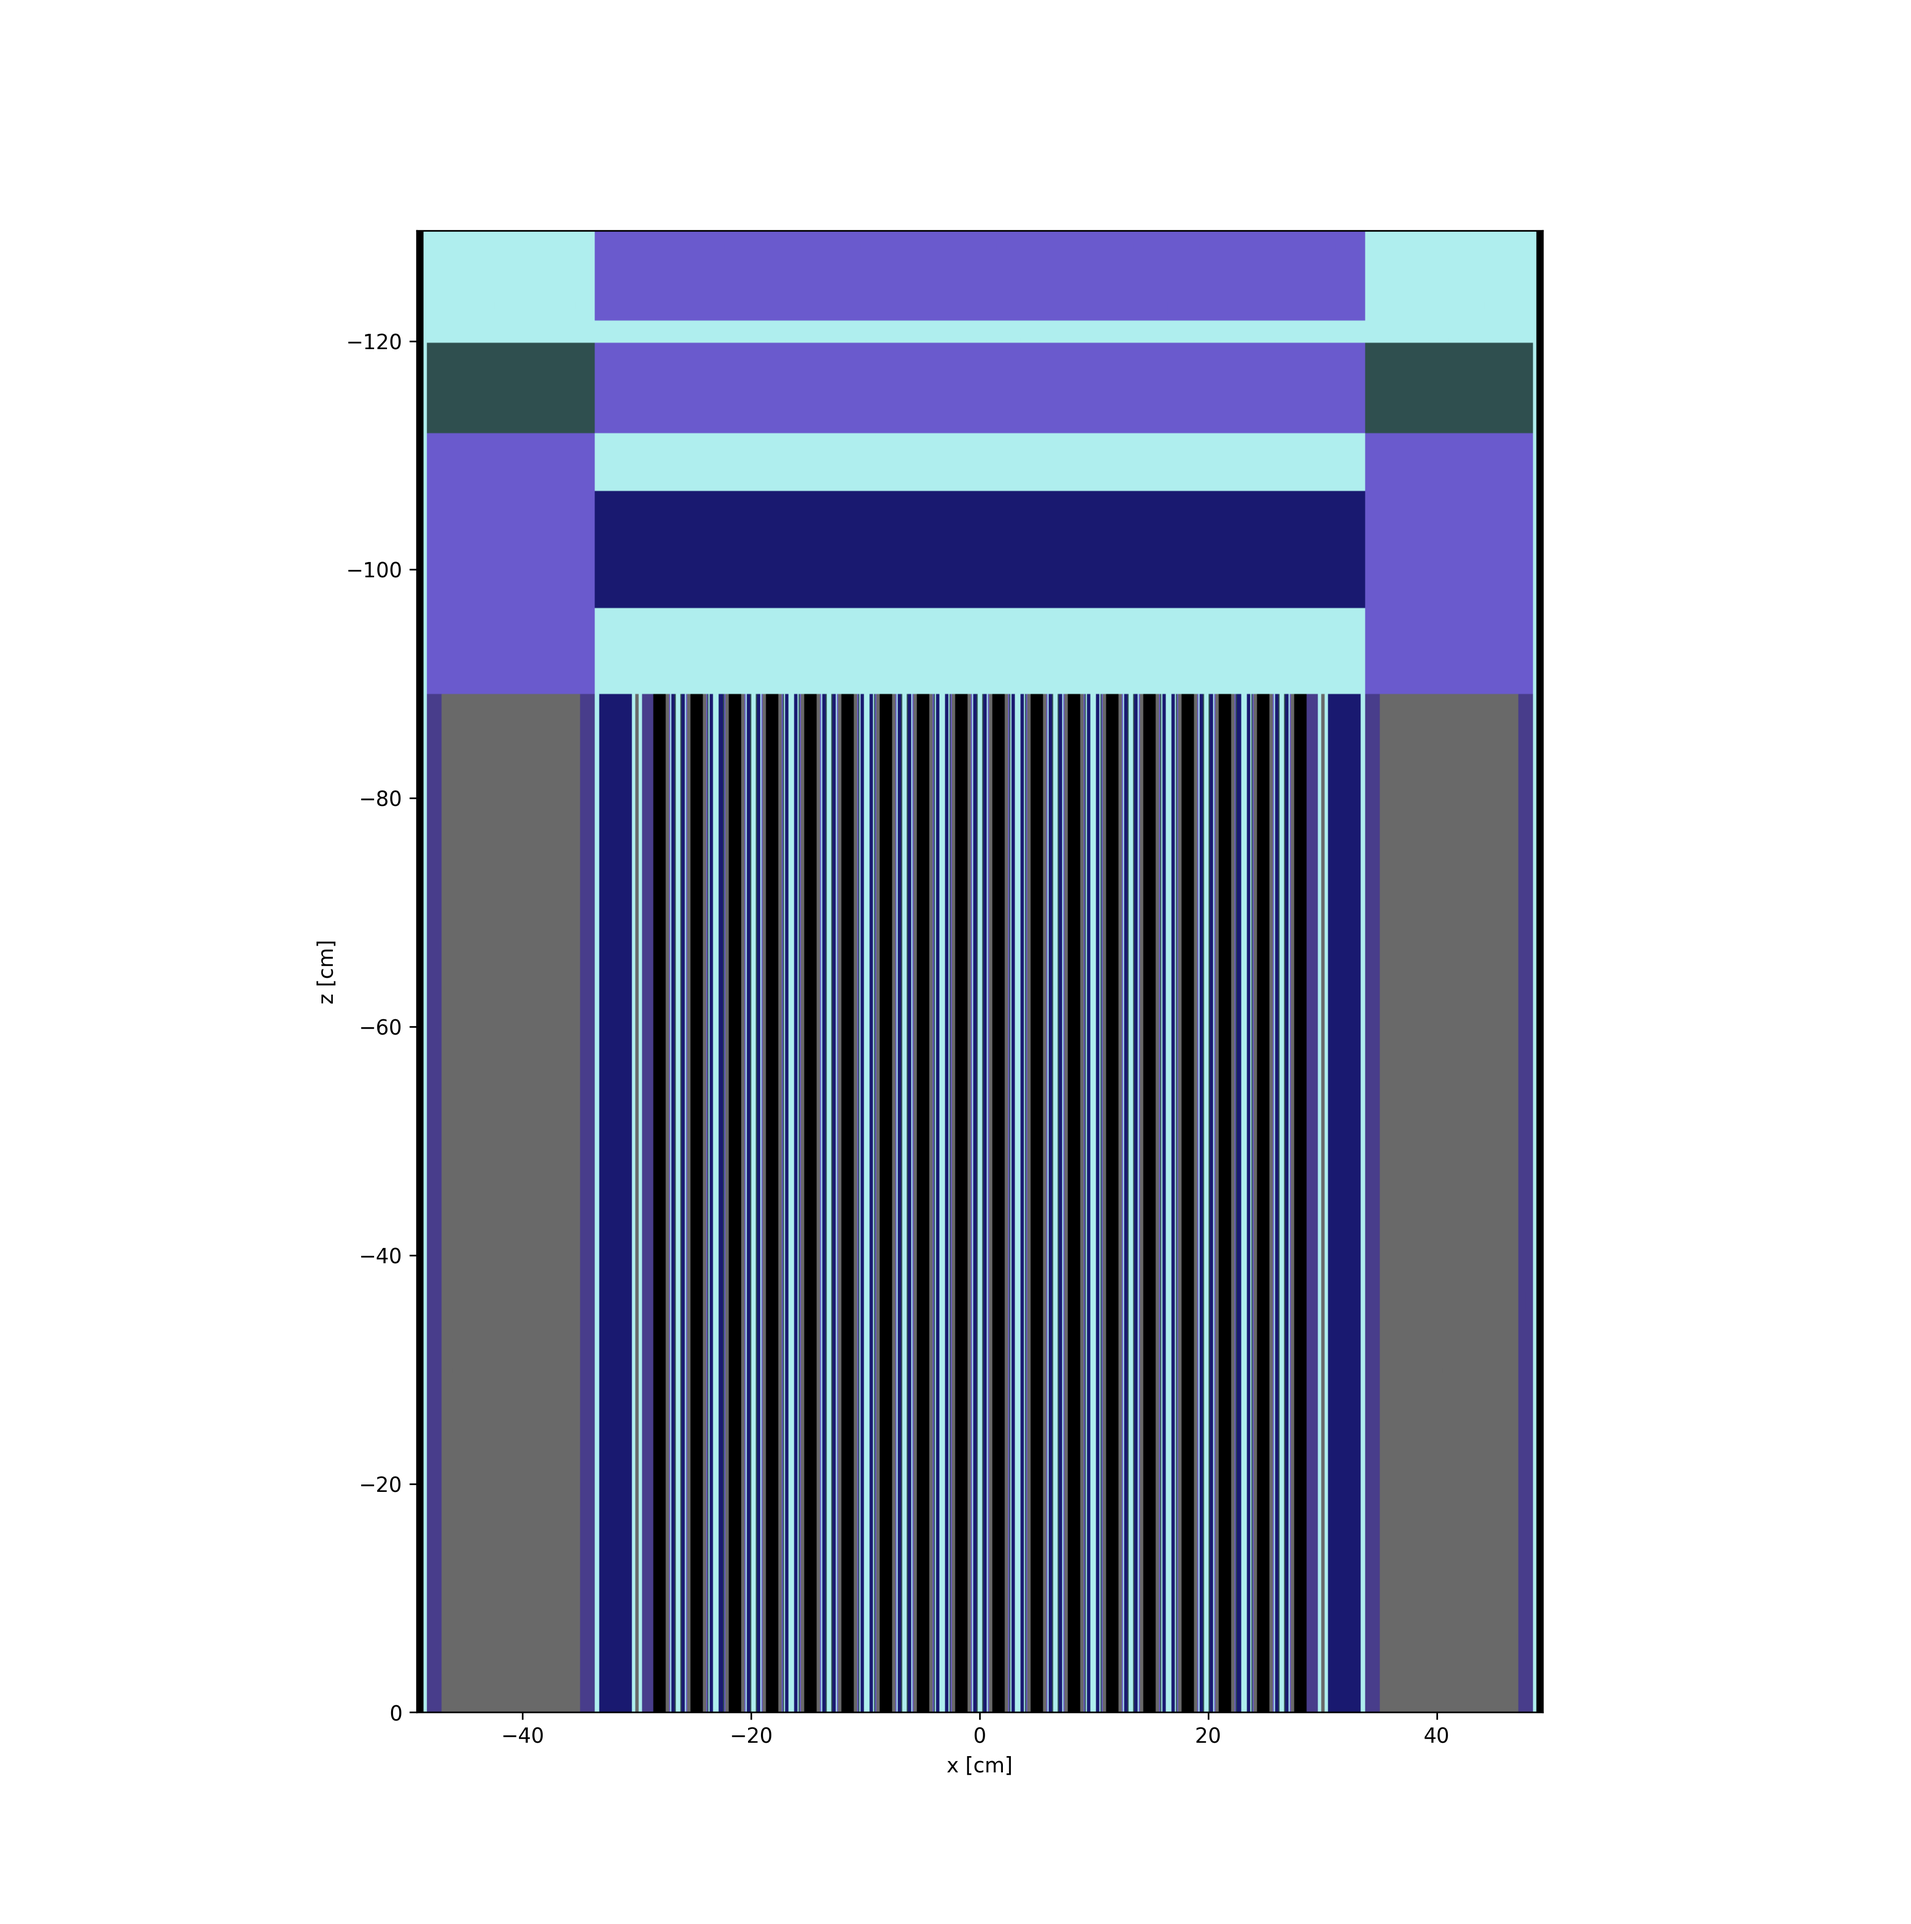
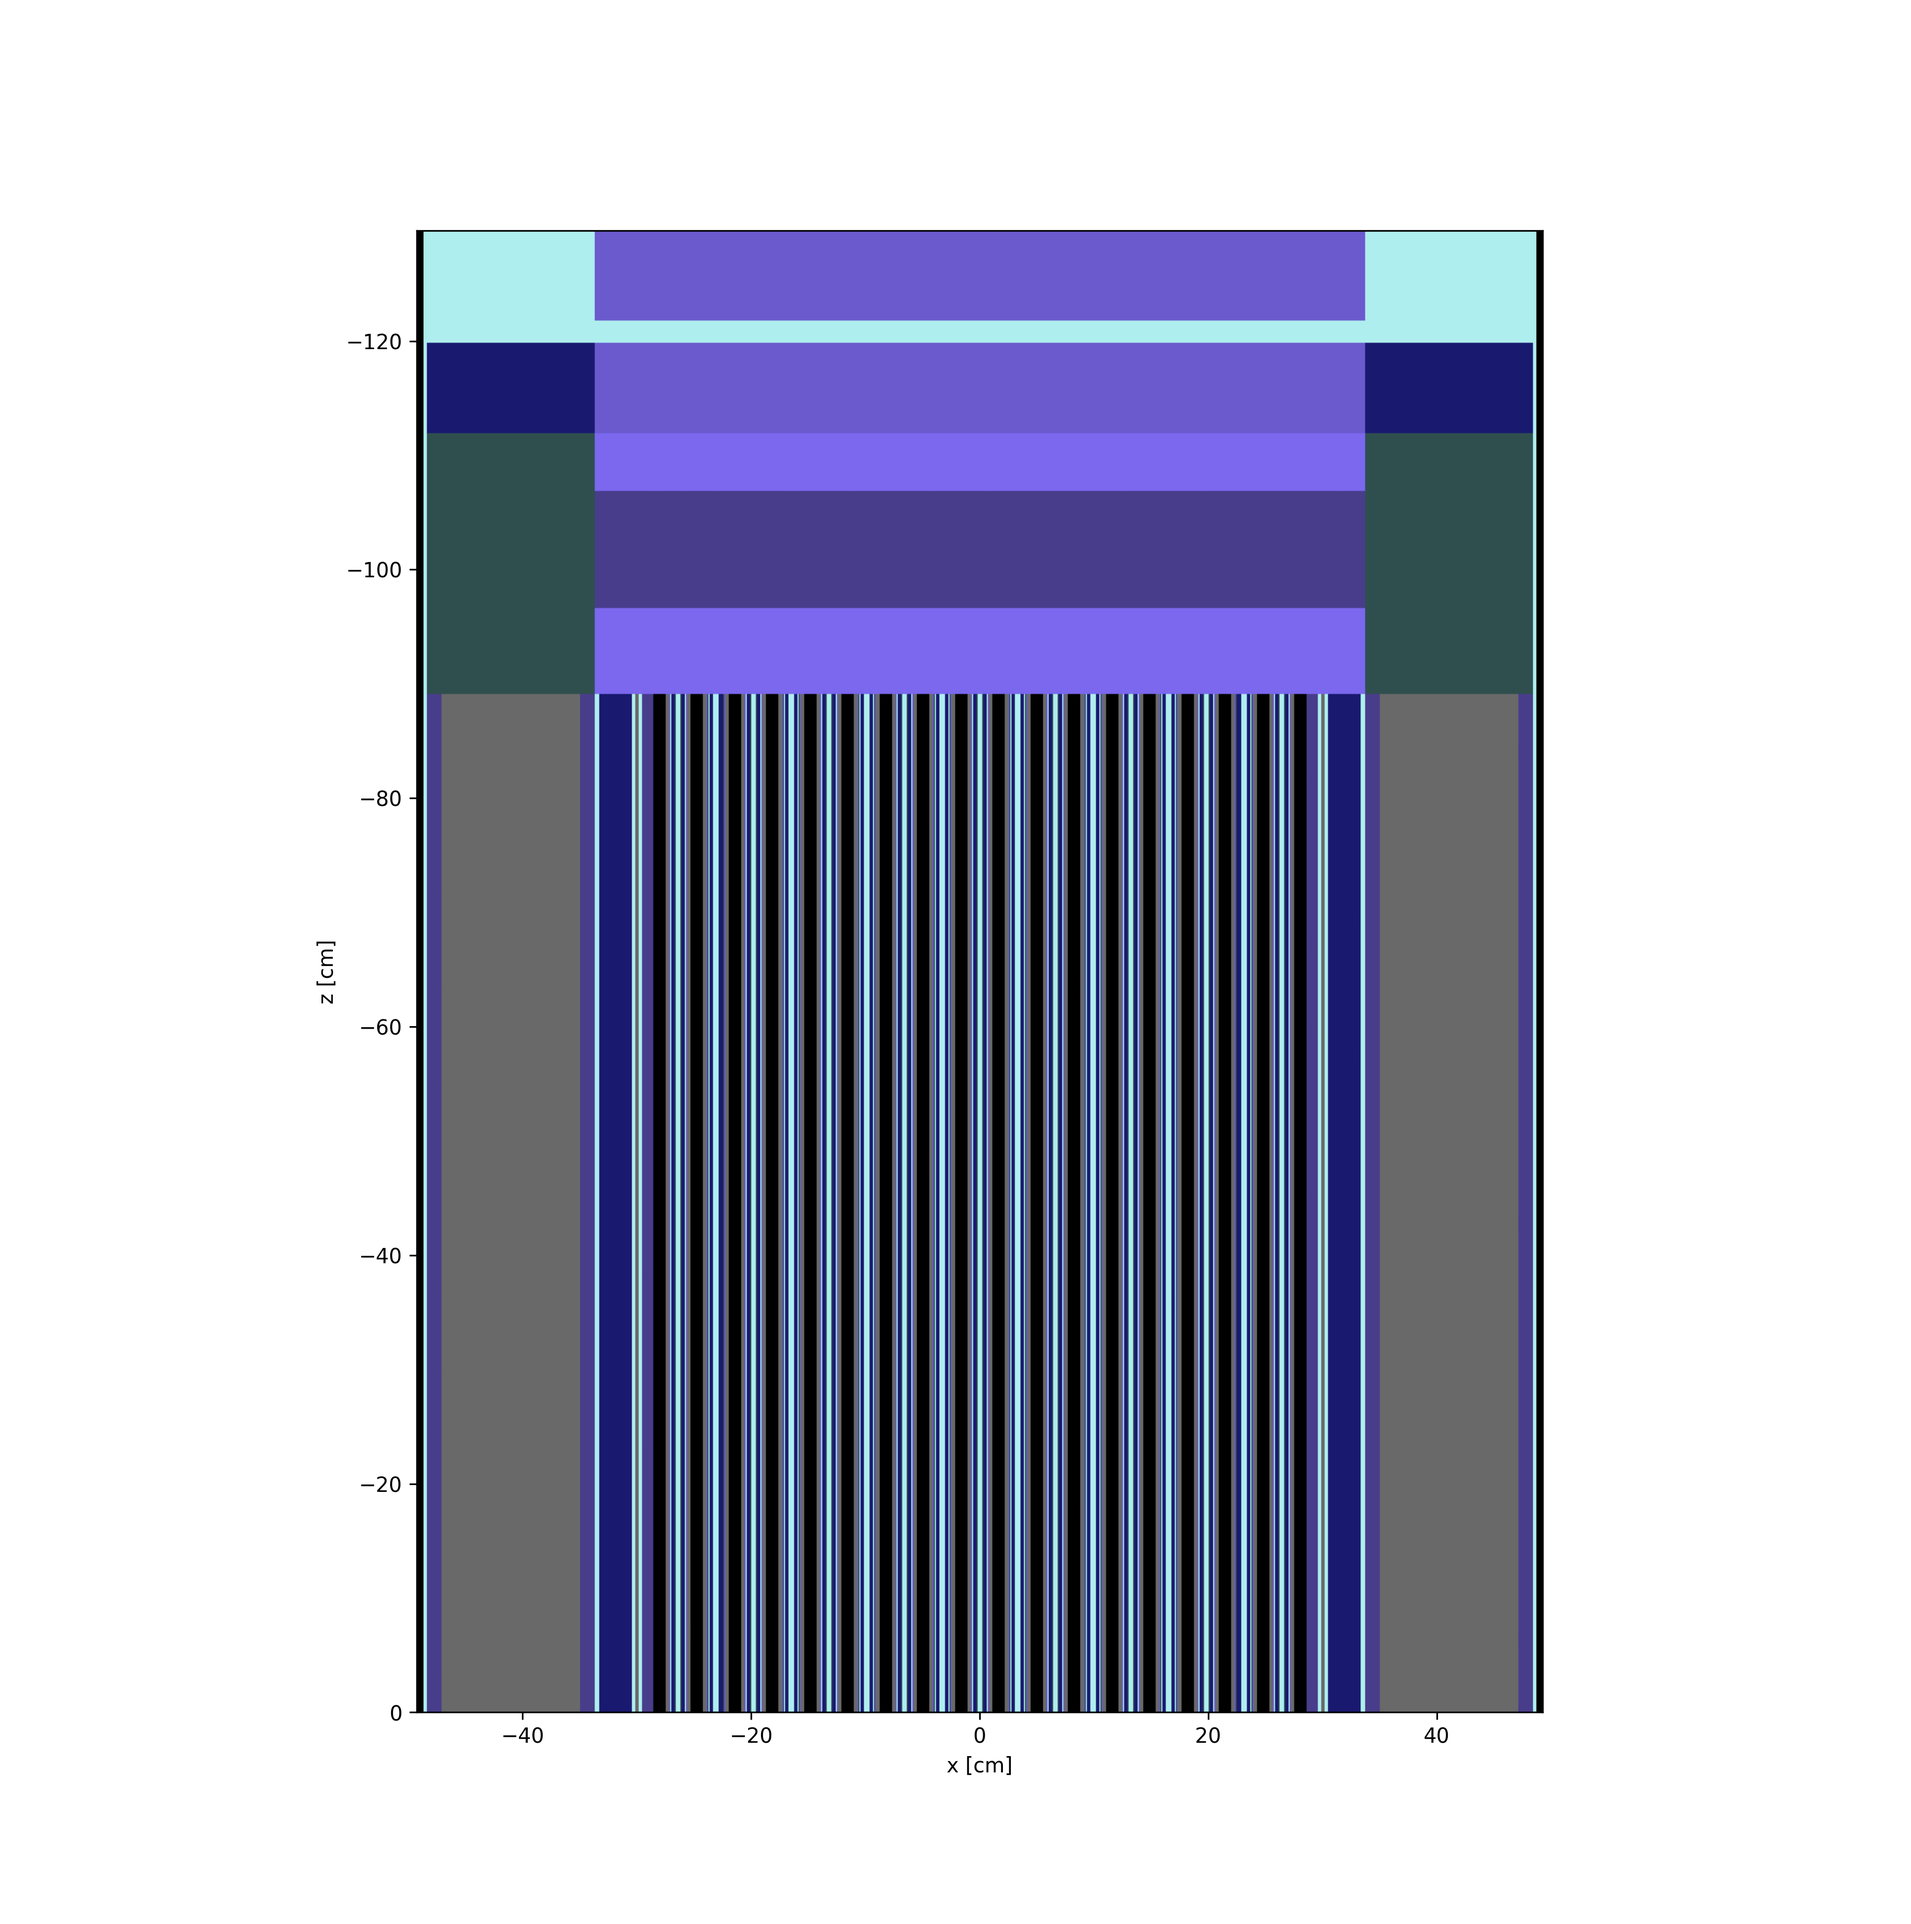
colour correction

Changed region(s): [[0.2171, 0.1553, 0.8062, 0.3727]]

diff --git a/SNREModelling_OpenMC/SNRE_3DReactorAssembly/SNRE_3DGeometry.py b/SNREModelling_OpenMC/SNRE_3DReactorAssembly/SNRE_3DGeometry.py
@@ -522,14 +522,14 @@ class SNRE_3DGeometry:
                                 self.materials.RH_pressureVessel: 'black',
                                 self.materials.RH_controlPlate: 'black',
                                 self.materials.RH_controlDrum: 'dimgray',
-                                self.materials.RH_lowerTieTubePlenum: 'paleturquoise',
-                                self.materials.RH_coreSupportPlate: 'midnightblue',
-                                self.materials.RH_upperTieTubePlenum: 'paleturquoise',
+                                self.materials.RH_lowerTieTubePlenum: 'mediumslateblue',
+                                self.materials.RH_coreSupportPlate: 'darkslateblue',
+                                self.materials.RH_upperTieTubePlenum: 'mediumslateblue',
                                 self.materials.RH_lowerInternalShield: 'slateblue',
                                 self.materials.RH_hydrogenInnerPlenum: 'paleturquoise',
                                 self.materials.RH_upperInternalShield: 'slateblue',
-                                self.materials.RH_controlDrumActuatorZone: 'slateblue',
-                                self.materials.RH_brimShield: 'darkslategray',
+                                self.materials.RH_controlDrumActuatorZone: 'darkslategray',
+                                self.materials.RH_brimShield: 'midnightblue',
                                 self.materials.RH_hydrogenOuterPlenum: 'paleturquoise'
                                 },
                         pixels=[1000,1000])
@@ -559,14 +559,14 @@ class SNRE_3DGeometry:
                                 self.materials.RH_pressureVessel: 'black',
                                 self.materials.RH_controlPlate: 'black',
                                 self.materials.RH_controlDrum: 'dimgray',
-                                self.materials.RH_lowerTieTubePlenum: 'paleturquoise',
-                                self.materials.RH_coreSupportPlate: 'midnightblue',
-                                self.materials.RH_upperTieTubePlenum: 'paleturquoise',
+                                self.materials.RH_lowerTieTubePlenum: 'mediumslateblue',
+                                self.materials.RH_coreSupportPlate: 'darkslateblue',
+                                self.materials.RH_upperTieTubePlenum: 'mediumslateblue',
                                 self.materials.RH_lowerInternalShield: 'slateblue',
                                 self.materials.RH_hydrogenInnerPlenum: 'paleturquoise',
                                 self.materials.RH_upperInternalShield: 'slateblue',
-                                self.materials.RH_controlDrumActuatorZone: 'slateblue',
-                                self.materials.RH_brimShield: 'darkslategray',
+                                self.materials.RH_controlDrumActuatorZone: 'darkslategray',
+                                self.materials.RH_brimShield: 'midnightblue',
                                 self.materials.RH_hydrogenOuterPlenum: 'paleturquoise'
                                 },
                         pixels=[1000,1000])
@@ -596,14 +596,14 @@ class SNRE_3DGeometry:
                                 self.materials.RH_pressureVessel: 'black',
                                 self.materials.RH_controlPlate: 'black',
                                 self.materials.RH_controlDrum: 'dimgray',
-                                self.materials.RH_lowerTieTubePlenum: 'paleturquoise',
-                                self.materials.RH_coreSupportPlate: 'midnightblue',
-                                self.materials.RH_upperTieTubePlenum: 'paleturquoise',
+                                self.materials.RH_lowerTieTubePlenum: 'mediumslateblue',
+                                self.materials.RH_coreSupportPlate: 'darkslateblue',
+                                self.materials.RH_upperTieTubePlenum: 'mediumslateblue',
                                 self.materials.RH_lowerInternalShield: 'slateblue',
                                 self.materials.RH_hydrogenInnerPlenum: 'paleturquoise',
                                 self.materials.RH_upperInternalShield: 'slateblue',
-                                self.materials.RH_controlDrumActuatorZone: 'slateblue',
-                                self.materials.RH_brimShield: 'darkslategray',
+                                self.materials.RH_controlDrumActuatorZone: 'darkslategray',
+                                self.materials.RH_brimShield: 'midnightblue',
                                 self.materials.RH_hydrogenOuterPlenum: 'paleturquoise'
                                 },
                         pixels=[1000,1000])
